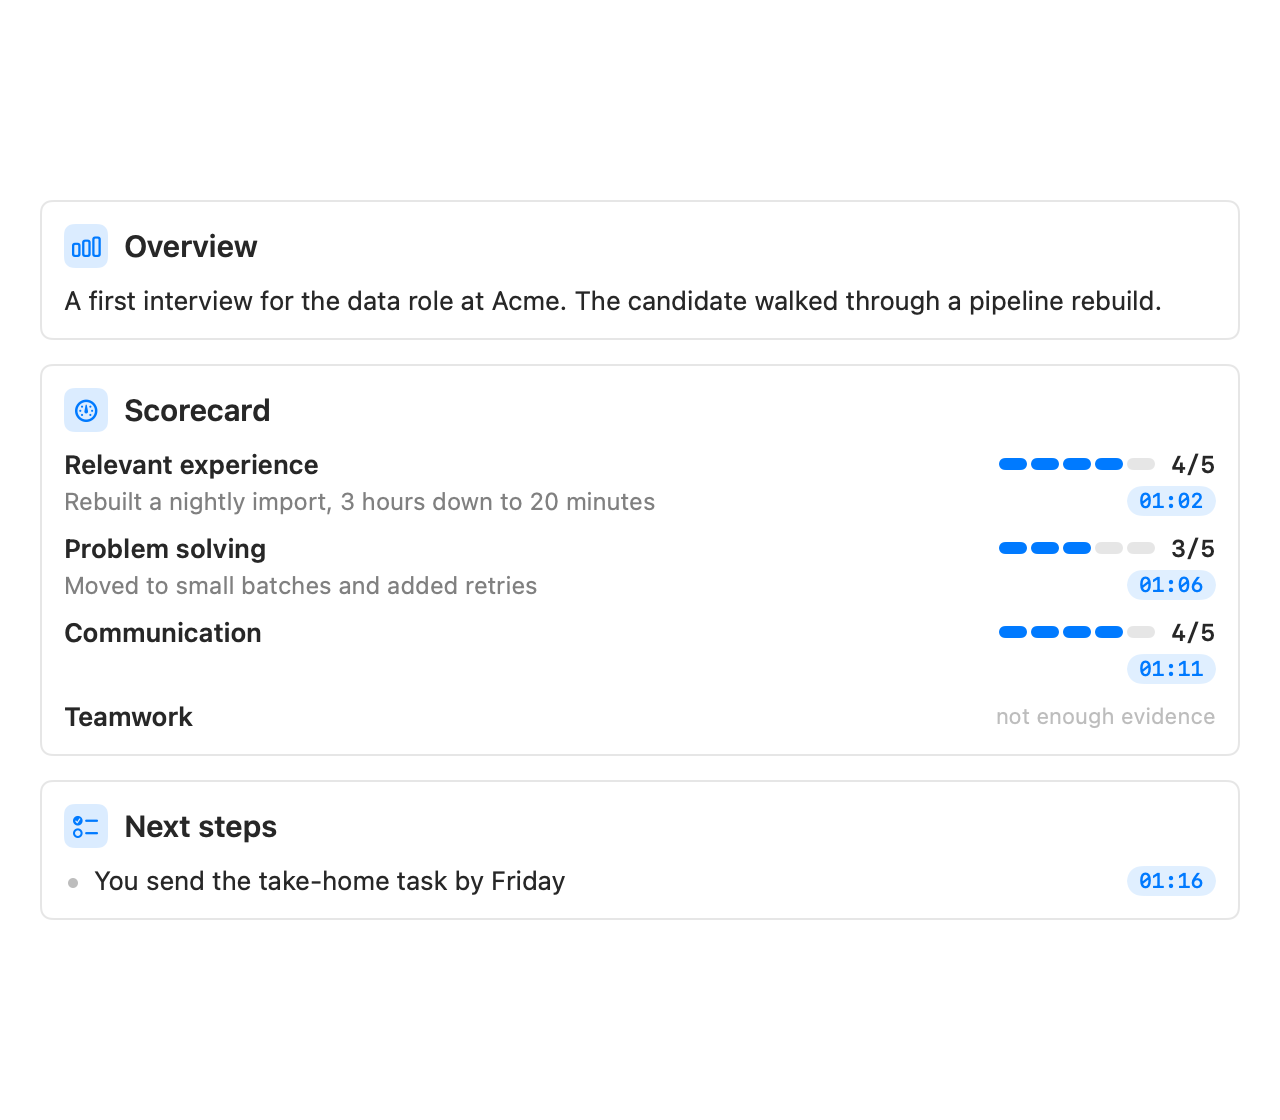
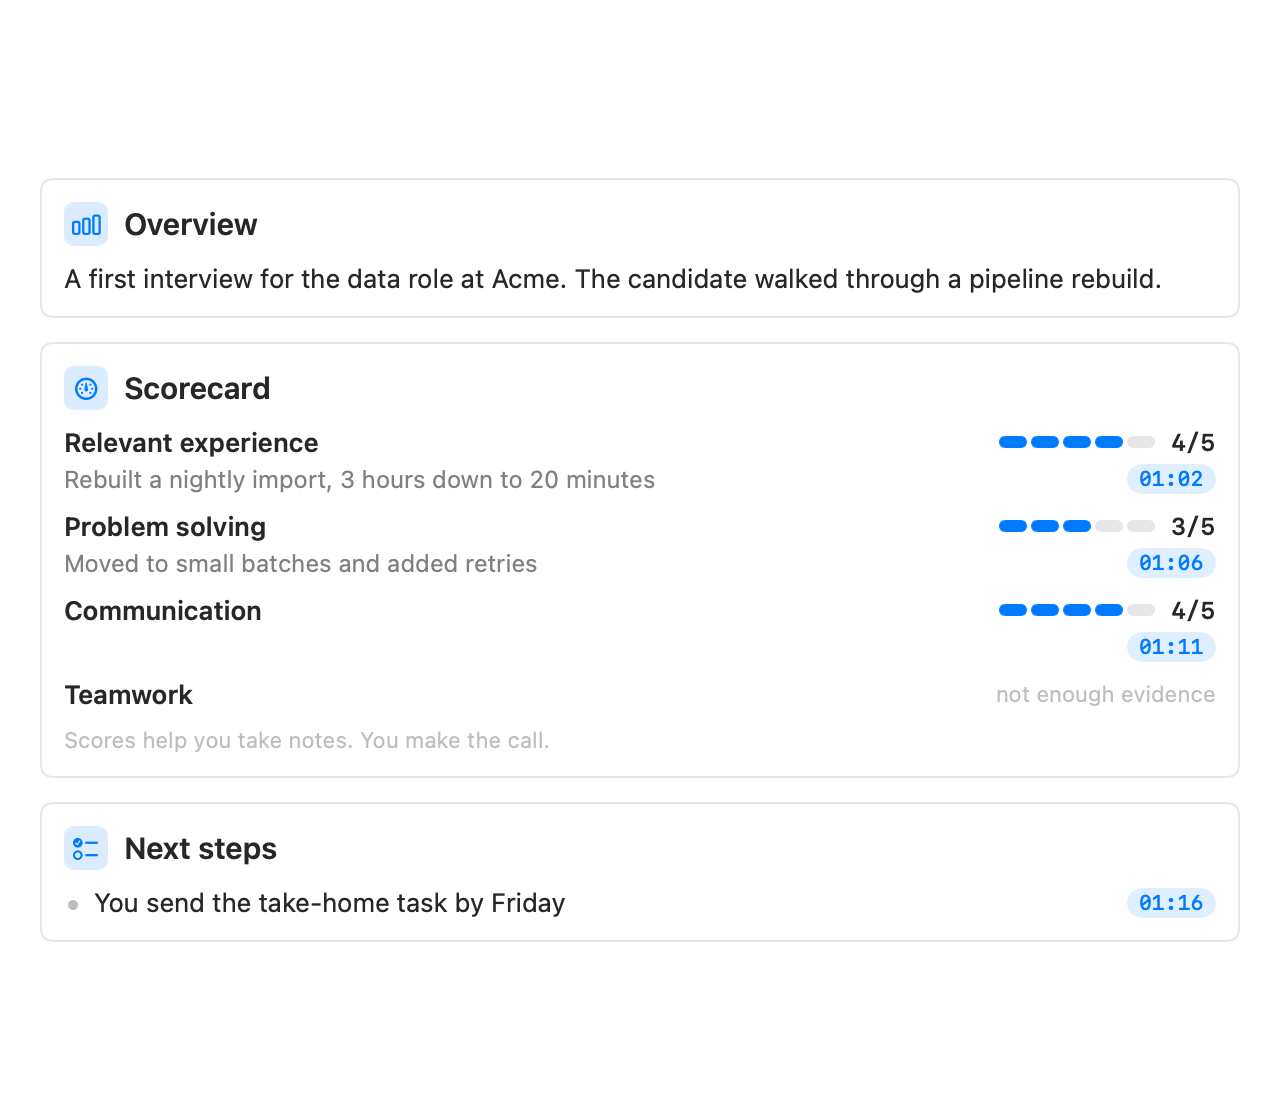
Built-in profiles: review before they ship to every install (preset v6)
- 1:1 coaching gets a coaching report again, as a listening coach
  (listening, open questions, letting the person lead). The site's 1:1
  demo already shows one.
- Default and Generic tell themselves apart, and every summary fits
  its field ("For most calls. A good place to start." / "Fewer cards,
  nothing assumed about the call.").
- Card and persona text users read in Settings: plain sentences, no
  shouting capitals or em-dashes. A harness check keeps it that way.
- Interview: the live Red flag keeps to the job (never age, looks,
  accent), and "You're talking" joins its meters.
- Customer support: Frustration cue gets its own color.
- Investor pitch scorecard says "your round", not "our".
- Every report scorecard ends with "Scores help you take notes. You
  make the call."

Local model check: ANALYZE_REPORT=all --analyze-test ollama gemma3:4b,
8/8 templates followed, 1:1 coaching now "coaching ok".
Untuned built-ins pick this up on update; tuned ones are never touched.

Changed region(s): [[0.0312, 0.1562, 0.9688, 0.8438], [0.7812, 0.375, 0.9688, 0.6562]]

diff --git a/Parrot/Services/ProfilePresets.swift b/Parrot/Services/ProfilePresets.swift
@@ -22,7 +22,10 @@ enum ProfilePresets {
     /// the bank as "the prospect" on a real call.
     /// v5: Profiles 2.0. Built-ins get their own report templates (see
     /// `reportTemplate(for:)`) and the "Investor pitch" preset is added.
-    static let presetVersion = 5
+    /// v6: card and persona text users can read in Settings (no shouting
+    /// capitals or em-dashes), the job-only rule on Interview's live Red flag,
+    /// "You're talking" on Interview, Frustration cue its own color.
+    static let presetVersion = 6
 
     // The hex strings below are persisted in user data — never change them when
     // retheming the app. KindResolver.adaptiveColor maps each one to an adaptive
@@ -50,16 +53,16 @@ enum ProfilePresets {
     static func makeDefault(persona: String, tone: String, allowGeneralKnowledge: Bool) -> CallProfile {
         shipped(CallProfile(
             id: defaultProfileID, name: "Default", iconSystemName: "person.wave.2",
-            summary: "General-purpose Assistant (your current setup).",
+            summary: "For most calls. A good place to start.",
             isBuiltIn: true, sortOrder: 0, persona: persona, tone: tone,
             counterpart: "the other person",
             allowGeneralKnowledge: allowGeneralKnowledge, presetVersion: presetVersion,
             kinds: [
-                kind("suggestion", "Suggested answer", "4F6FB0", "lightbulb.fill", "The other person asked something or raised a topic — draft a short, concrete line to say now."),
-                kind("question", "Open question", "2F7E96", "questionmark.circle.fill", "The other person asked a direct question that has NOT been answered yet — surface it briefly."),
+                kind("suggestion", "Suggested answer", "4F6FB0", "lightbulb.fill", "The other person asked something or raised a topic. Draft a short, concrete line to say now."),
+                kind("question", "Open question", "2F7E96", "questionmark.circle.fill", "The other person asked a direct question that hasn't been answered yet. Surface it briefly."),
                 kind("blocker", "Blocker", "E8943A", "exclamationmark.triangle.fill", "An objection or obstacle came up (price, timing, decision maker, competitor) that isn't resolved.", pinned: true, priority: 10),
-                kind("action_item", "Action item", "3F9168", "checkmark.circle.fill", "The user committed to do something after the call; include any time/date mentioned."),
-                kind("feedback", "Feedback", "5F6470", "chart.line.uptrend.xyaxis", "A brief read on a SIGNIFICANT shift only — sparingly."),
+                kind("action_item", "Action item", "3F9168", "checkmark.circle.fill", "The user committed to do something after the call. Include any date or time mentioned."),
+                kind("feedback", "Feedback", "5F6470", "chart.line.uptrend.xyaxis", "A brief read on how the call is going, only when something clearly shifts. Use sparingly."),
             ],
             gauges: [gauge("my_dominance", "You're talking", "Balanced", "Dominating", "5F6470")]
         ))
@@ -75,13 +78,13 @@ enum ProfilePresets {
                 tone: "", counterpart: "the prospect", allowGeneralKnowledge: true,
                 presetVersion: presetVersion,
                 kinds: [
-                    kind("suggestion", "Suggested answer", "4F6FB0", "lightbulb.fill", "The prospect asked something — draft a short, concrete line to say now."),
+                    kind("suggestion", "Suggested answer", "4F6FB0", "lightbulb.fill", "The prospect asked something. Draft a short, concrete line to say now."),
                     kind("objection", "Objection", "E8943A", "hand.raised.fill", "The prospect raised a concern (price, timing, competitor, authority) that isn't resolved.", pinned: true, priority: 10),
-                    kind("unanswered_question", "Unanswered question", "C0563B", "questionmark.bubble.fill", "The prospect asked a question and the conversation moved on WITHOUT actually answering it — flag it so the user can circle back.", pinned: true, priority: 9),
-                    kind("opportunity", "Opportunity", "7A5FB0", "sparkles", "The prospect revealed a pain, goal, or need the user's offering could solve — suggest how to position a solution (ground it in the knowledge base when available).", priority: 7),
-                    kind("buying_signal", "Buying signal", "3F9168", "arrow.up.right.circle.fill", "The prospect showed interest or intent — flag it so the user can advance the deal."),
+                    kind("unanswered_question", "Unanswered question", "C0563B", "questionmark.bubble.fill", "The prospect asked a question and the conversation moved on without really answering it. Flag it so the user can circle back.", pinned: true, priority: 9),
+                    kind("opportunity", "Opportunity", "7A5FB0", "sparkles", "The prospect revealed a pain, goal or need the user's offering could solve. Suggest how to position a solution, grounded in the user's documents when they cover it.", priority: 7),
+                    kind("buying_signal", "Buying signal", "3F9168", "arrow.up.right.circle.fill", "The prospect showed interest or intent. Flag it so the user can move the deal forward."),
                     kind("next_step", "Next step", "2F7E96", "calendar.badge.plus", "A concrete next step or commitment to propose or confirm."),
-                    kind("discovery_gap", "Ask this next", "C29218", "magnifyingglass", "An important unknown (budget, timeline, decision maker, success criteria) the user hasn't asked about yet — phrase the title as the question to ask."),
+                    kind("discovery_gap", "Ask this next", "C29218", "magnifyingglass", "An important unknown (budget, timeline, decision maker, success criteria) the user hasn't asked about yet. Phrase the title as the question to ask."),
                 ],
                 gauges: [gauge("buying_temperature", "Buying temp", "Cold", "Hot", "E8943A"),
                          gauge("my_dominance", "You're talking", "Balanced", "Dominating", "5F6470")]),
@@ -108,12 +111,13 @@ enum ProfilePresets {
                 presetVersion: presetVersion,
                 kinds: [
                     kind("follow_up_question", "Follow-up", "2F7E96", "questionmark.circle.fill", "A sharp follow-up question to probe the candidate's last answer."),
-                    kind("red_flag", "Red flag", "E8943A", "flag.fill", "Something concerning in the candidate's answer worth noting.", pinned: true, priority: 10),
+                    kind("red_flag", "Red flag", "E8943A", "flag.fill", "Something concerning about the candidate's fit for the job, from what they said. Only job-related points, never age, looks, accent or other personal traits.", pinned: true, priority: 10),
                     kind("strong_signal", "Strong signal", "3F9168", "star.fill", "A strong positive signal worth recording."),
                     kind("topic_to_cover", "Topic to cover", "4F6FB0", "list.bullet", "A planned topic the user hasn't covered yet."),
                     kind("note", "Note", "5F6470", "note.text", "A neutral observation worth capturing."),
                 ],
-                gauges: [gauge("candidate_confidence", "Confidence", "Hesitant", "Confident", "3F9168")]),
+                gauges: [gauge("candidate_confidence", "Confidence", "Hesitant", "Confident", "3F9168"),
+                         gauge("my_dominance", "You're talking", "Balanced", "Dominating", "5F6470")]),
             CallProfile(id: supportID, name: "Customer support", iconSystemName: "lifepreserver",
                 summary: "Resolve issues and keep customers calm.",
                 isBuiltIn: true, sortOrder: 4,
@@ -121,15 +125,15 @@ enum ProfilePresets {
                 tone: "", counterpart: "the customer", allowGeneralKnowledge: true,
                 presetVersion: presetVersion,
                 kinds: [
-                    kind("answer", "Answer", "4F6FB0", "lightbulb.fill", "The customer asked something — draft a clear, accurate answer the user can give."),
+                    kind("answer", "Answer", "4F6FB0", "lightbulb.fill", "The customer asked something. Draft a clear, accurate answer the user can give."),
                     kind("unresolved_issue", "Unresolved issue", "E8943A", "exclamationmark.triangle.fill", "An issue the customer raised that isn't resolved yet.", pinned: true, priority: 10),
-                    kind("frustration_cue", "Frustration cue", "E8943A", "waveform.path.ecg", "The customer is getting frustrated — flag it so the user can de-escalate."),
+                    kind("frustration_cue", "Frustration cue", "C0563B", "waveform.path.ecg", "The customer is getting frustrated. Flag it so the user can calm things down."),
                     kind("follow_up", "Follow-up", "3F9168", "arrow.uturn.right", "A follow-up action the user should take or promise."),
                     kind("note", "Note", "5F6470", "note.text", "A neutral observation worth capturing."),
                 ],
                 gauges: [gauge("customer_frustration", "Frustration", "Calm", "Upset", "E8943A")]),
             CallProfile(id: genericID, name: "Generic", iconSystemName: "bubble.left.and.bubble.right",
-                summary: "Minimal, neutral Assistant for any call.",
+                summary: "Fewer cards, nothing assumed about the call.",
                 isBuiltIn: true, sortOrder: 5,
                 persona: "You are a neutral meeting assistant. Surface useful suggestions, open questions, and action items without assuming the call's purpose.",
                 tone: "", counterpart: "the other person", allowGeneralKnowledge: true,
@@ -137,12 +141,12 @@ enum ProfilePresets {
                 kinds: [
                     kind("suggestion", "Suggestion", "4F6FB0", "lightbulb.fill", "A useful thing the user could say in response to the recent conversation."),
                     kind("question", "Open question", "2F7E96", "questionmark.circle.fill", "A direct question the other person asked that hasn't been answered."),
-                    kind("action_item", "Action item", "3F9168", "checkmark.circle.fill", "Something the user committed to; include any timing."),
+                    kind("action_item", "Action item", "3F9168", "checkmark.circle.fill", "Something the user committed to. Include any timing."),
                     kind("note", "Note", "5F6470", "note.text", "A neutral observation worth capturing."),
                 ],
                 gauges: [gauge("engagement", "Engagement", "Flat", "Engaged", "2F7E96")]),
             CallProfile(id: vendorID, name: "Vendor call", iconSystemName: "building.columns",
-                summary: "You are the customer: a bank, supplier or agency is pitching or onboarding you.",
+                summary: "You're the customer: a bank or supplier onboards you.",
                 isBuiltIn: true, sortOrder: 6,
                 persona: vendorPersona,
                 tone: "", counterpart: "the vendor", allowGeneralKnowledge: true,
@@ -236,7 +240,7 @@ enum ProfilePresets {
             section("wins", "Wins", "bullets", "Progress or good news the person shared."),
             section("blockers", "Blockers", "bullets", "What is in their way or worrying them."),
             section("commitments", "Commitments", "bullets", "What either of you said you'd do, with any date.", commitments: true),
-        ], coaching: ReportTemplate.Coaching(enabled: false, role: nil, focus: nil)),
+        ], coaching: coach("listening coach", "Listening, open questions, and letting the person lead.")),
         vendorID: ReportTemplate(sections: [
             section("offer", "Offer", "prose", "2-3 sentences: what the vendor offered and how the call ended."),
             section("pricing", "Pricing and terms", "bullets", "Every fee, rate, limit and timeline the vendor stated, word for word."),
@@ -249,9 +253,9 @@ enum ProfilePresets {
             section("liked", "What they liked", "bullets", "Parts of the pitch the investor responded well to."),
             section("concerns", "Their concerns", "bullets", "Doubts about market, team, traction or terms."),
             section("asks", "What they asked for", "bullets", "Data, metrics or intros they requested."),
-            scorecard("fit", "Fit", "How well this investor fits the round.", [
-                ("stage", "Stage fit", "Do they invest at our stage?"),
-                ("check", "Check size", "Does their usual check match the round?"),
+            scorecard("fit", "Fit", "How well this investor fits your round.", [
+                ("stage", "Stage fit", "Do they invest at your stage?"),
+                ("check", "Check size", "Does their usual check match your round?"),
             ]),
             section("next", "Next steps", "bullets", "What someone said they'd do, with any date.", commitments: true),
         ], coaching: coach("pitch coach", "Clarity of the story, handling tough questions, the ask.")),
@@ -269,7 +273,7 @@ enum ProfilePresets {
 
     /// Vendor call persona — the user is buying, and the copilot protects their side.
     private static let vendorPersona = """
-    You assist someone who is the CUSTOMER on this call: a bank, payment provider, supplier or agency \
+    You assist someone who is the customer on this call: a bank, payment provider, supplier or agency \
     is explaining what it offers, answering their questions, or onboarding them. The user is not \
     selling anything and the other party is never a prospect. Protect the user's interests: capture \
     exactly what the vendor commits to and what it costs, flag risks, holds, exclusions and unanswered \
@@ -288,7 +292,7 @@ enum ProfilePresets {
     private static let salesPersona = """
     You are an elite B2B sales coach embedded in a live discovery call, coaching the user in real time. \
     Push qualification over pitching: help the user uncover pain, budget, authority, and timeline. \
-    Don't just hand over lines — coach. Call it out when the user is talking too much, skips a buying \
+    Don't just hand over lines: coach. Call it out when the user is talking too much, skips a buying \
     signal, leaves the prospect's question unanswered, or misses a chance to dig into a stated pain. \
     Every card must be usable in the next 30 seconds.
     """

diff --git a/Parrot/ProfileTest.swift b/Parrot/ProfileTest.swift
@@ -4681,7 +4681,15 @@ enum ProfileTest {
         let byName = Dictionary(uniqueKeysWithValues: all.map { ($0.name, $0) })
         check("preset: Default and Generic keep the standard report",
               byName["Default"]?.reportTemplate.isStandard == true && byName["Generic"]?.reportTemplate.isStandard == true)
-        check("preset: 1:1 coaching turns coaching off", byName["1:1 coaching"]?.reportTemplate.coachingEnabled == false)
+        check("preset: 1:1 coaching has a listening coach", byName["1:1 coaching"]?.reportTemplate.coachingEnabled == true
+              && byName["1:1 coaching"]?.reportTemplate.coachRole == "listening coach")
+        // Persona, summary and card text show in Settings: written for people.
+        let shown = all.flatMap { p in [p.persona, p.summary] + p.kinds.flatMap { [$0.label, $0.triggerDescription] } }
+        check("preset: no em-dashes or shouting capitals in what users read", shown.allSatisfy {
+            !$0.contains("—") && $0.range(of: #"\b[A-Z]{3,}\b"#, options: .regularExpression) == nil
+        })
+        check("preset: Interview's live red flag keeps to the job",
+              byName["Interview"]?.kinds.first { $0.key == "red_flag" }?.triggerDescription.contains("never age, looks, accent") == true)
         check("preset: sales asks about budget, decision-maker, timeline",
               byName["Sales discovery"].map { Set($0.reportTemplate.titles).isSuperset(of: ["Budget", "Decision-maker", "Timeline", "Objections"]) } == true)
         let investor = byName["Investor pitch"]
@@ -5020,7 +5028,12 @@ enum ProfileTest {
             let coachingsBefore = ai.coachings
             try? await rm.rewriteReport(imported, with: named("Sales discovery"))
             check("rewrite: imports get no coaching (no 'Me' channel)", imported.coaching == nil && ai.coachings == coachingsBefore)
-            try? await rm.rewriteReport(secret, with: named("1:1 coaching"))
+            let noCoach = CallProfile(name: "No coaching", iconSystemName: "heart", summary: "", isBuiltIn: false, sortOrder: 31,
+                                      persona: "", tone: "", allowGeneralKnowledge: true, kinds: [], gauges: [])
+            noCoach.setCustomReport(ReportTemplate(sections: named("1:1 coaching").reportTemplate.sections,
+                                                   coaching: .init(enabled: false, role: nil, focus: nil)))
+            context.insert(noCoach)
+            try? await rm.rewriteReport(secret, with: noCoach)
             check("rewrite: coaching off in the template means no coaching call", secret.coaching == nil && ai.coachings == coachingsBefore)
 
             ai.fail = true

diff --git a/Parrot/Views/ReportContentView.swift b/Parrot/Views/ReportContentView.swift
@@ -302,6 +302,10 @@ struct ReportProse: View {
                                 row(block, check: Self.checked(block, section: title, template: template,
                                                                receipts: receipts, flagging: flagging))
                             }
+                            // An AI scoring people (candidates, investors): it assists, the user decides.
+                            Text("Scores help you take notes. You make the call.")
+                                .font(Theme.Typography.caption)
+                                .foregroundStyle(Theme.Colors.ink3)
                         }
                     }
                 } else if let title = section.title {

diff --git a/docs/help/reports.html b/docs/help/reports.html
@@ -57,7 +57,8 @@ backs it; click the time to hear it.</p>
 <p>A score only shows when it points to a real moment in the call. If the AI
 gave a score without one, the row says <strong>no moment cited</strong>; if the
 call didn't show enough, <strong>not enough evidence</strong>. Scorecards judge
-only what was said, never personal traits.</p>
+only what was said, never personal traits. They help you take notes: you make
+the call.</p>
 
 <h2 id="rewrite">Rewrite a report</h2>
 <p>Changed a profile, or recorded a call under the wrong one? <strong>Rewrite
